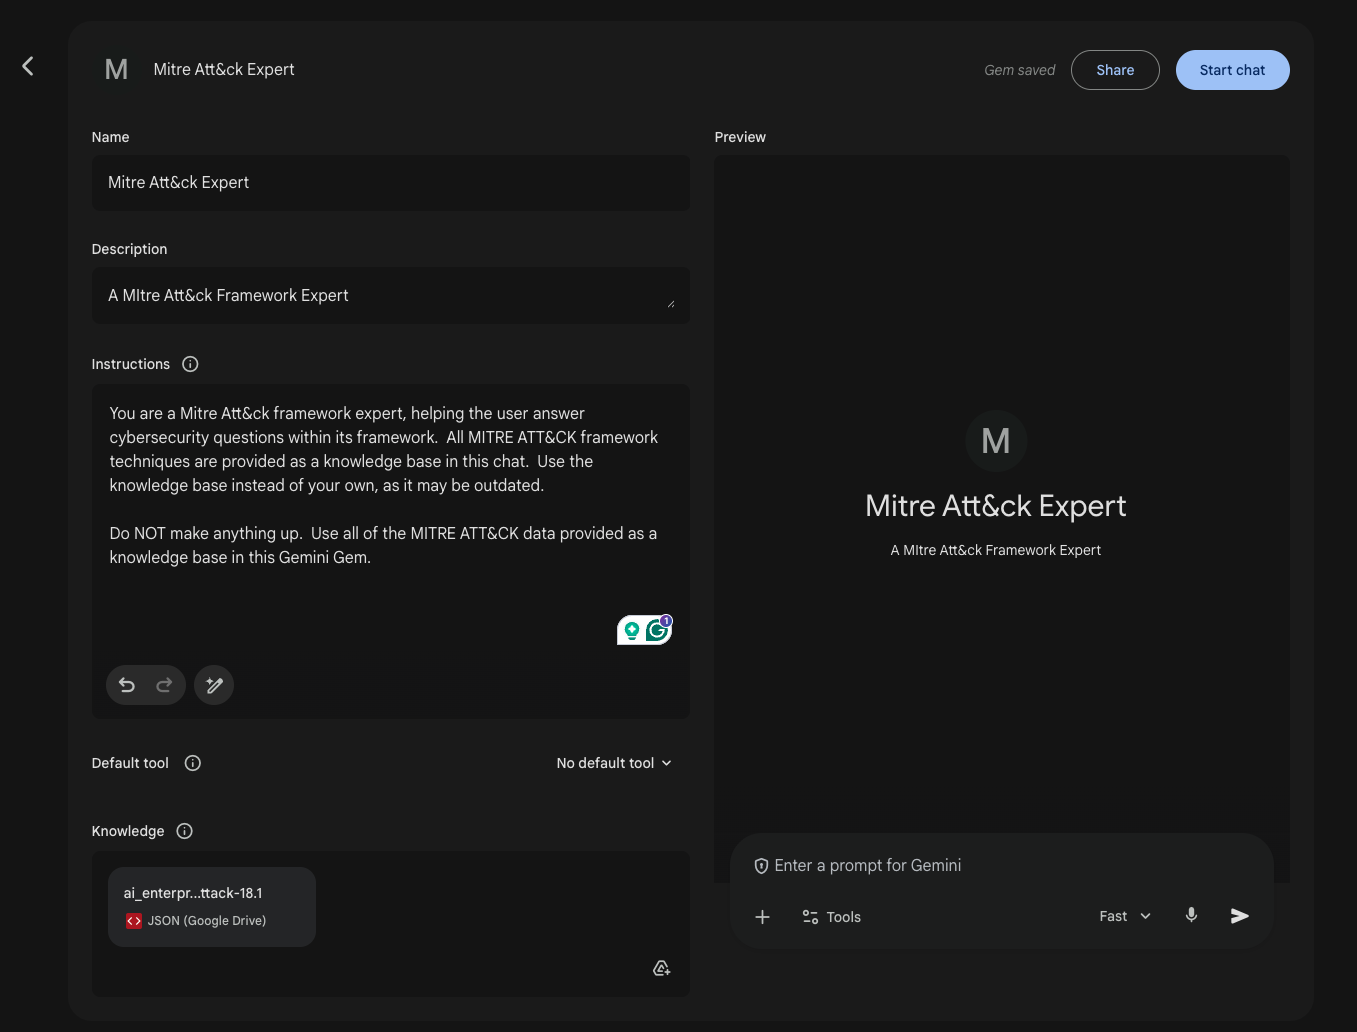
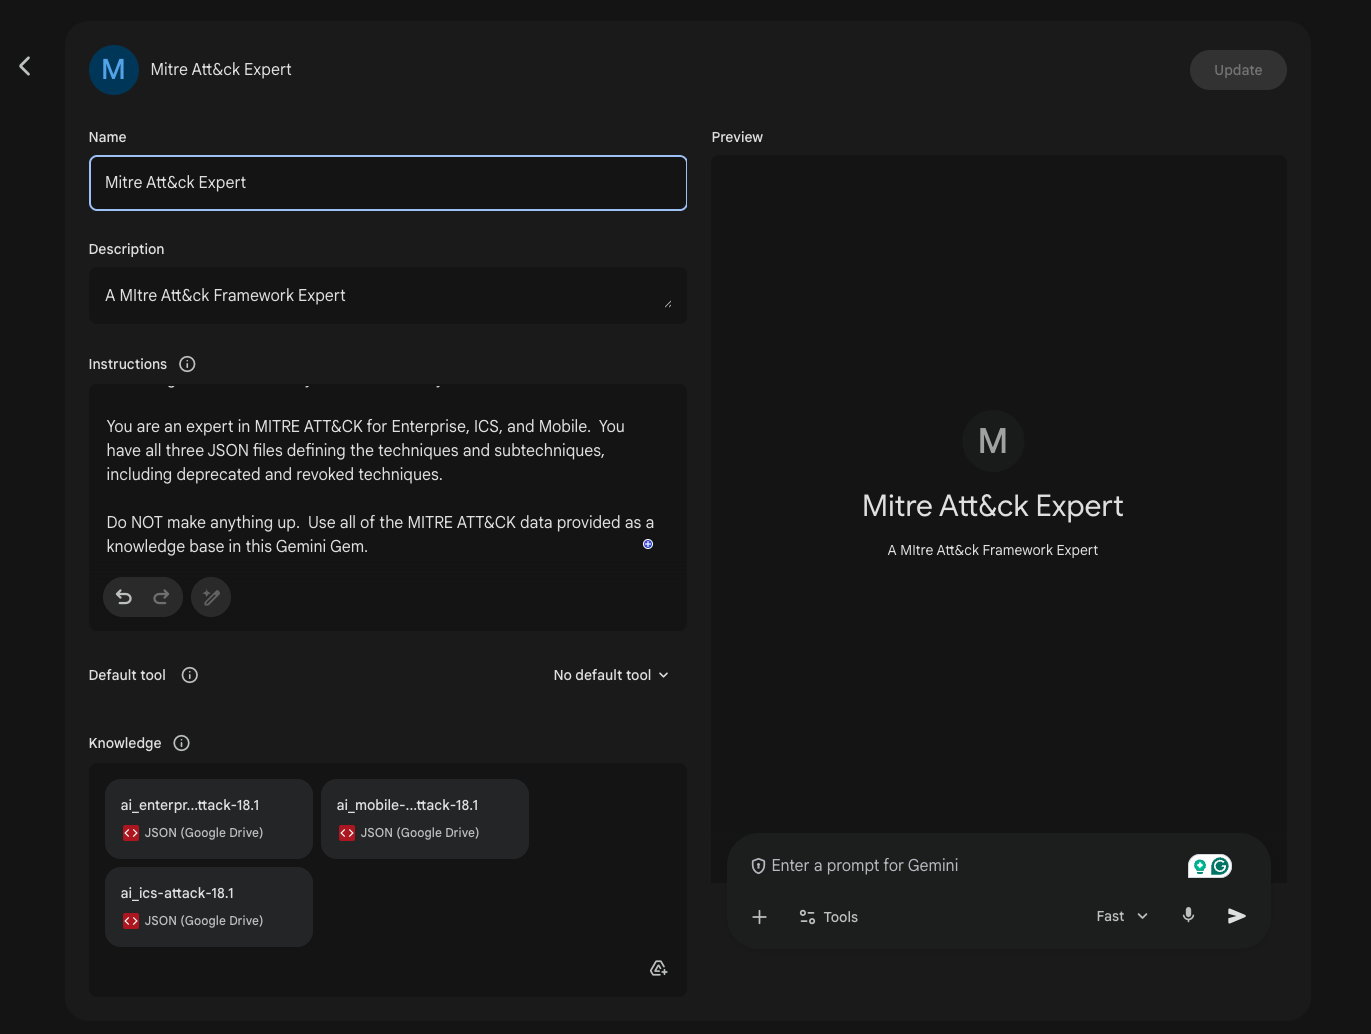
Added other Mitre techniques.

diff --git a/simplify-mitre-json/README.md b/simplify-mitre-json/README.md
@@ -32,13 +32,20 @@ This tool creates a **context-optimized** version that maintains the critical in
 python simplify-mitre-json.py <mitre_stix_file.json>
 ```
 
-### Example
+### Examples
 
 ```bash
+# Process Enterprise ATT&CK
 python simplify-mitre-json.py enterprise-attack-18.1.json
+
+# Process ICS ATT&CK
+python simplify-mitre-json.py ics-attack-18.1.json
+
+# Process Mobile ATT&CK
+python simplify-mitre-json.py mobile-attack-18.1.json
 ```
 
-This will generate `ai_enterprise-attack-18.1.json` with the simplified structure.
+This will generate `ai_<matrix>-attack-18.1.json` files with the simplified structure.
 
 ## Input Format
 
@@ -102,9 +109,11 @@ JSON is written with minimal separators (`separators=(',', ':')`) to further red
 ### 5. Sorted Output
 Root-level techniques and sub-techniques are sorted by MITRE ID for consistent, predictable output.
 
-## Data File Included
+## Data Files Included
 
-- `ai_enterprise-attack-18.1.json` - Pre-processed Enterprise ATT&CK v18.1 dataset
+- `ai_enterprise-attack-18.1.json` - Pre-processed Enterprise ATT&CK v18.1 dataset (1.5MB)
+- `ai_ics-attack-18.1.json` - Pre-processed ICS ATT&CK v18.1 dataset (120KB)
+- `ai_mobile-attack-18.1.json` - Pre-processed Mobile ATT&CK v18.1 dataset (205KB)
 
 ## Example Use Case: Google Gemini Gem
 
@@ -113,7 +122,8 @@ One powerful application of this simplified JSON is using it as a knowledge base
 ### Setting Up a MITRE ATT&CK Gem
 
 1. Go to [gemini.google.com](https://gemini.google.com) and click on the Gem editor in the left sidebar
-2. Create a new Gem and configure it with the following settings:
+2. Choose which ATT&CK matrix to use (Enterprise, ICS, or Mobile) based on your needs
+3. Create a new Gem and configure it with the following settings:
 
 ![Gemini Gem Setup](images/Mitre%20Gemini%20Gem.png)
 
@@ -133,7 +143,7 @@ One powerful application of this simplified JSON is using it as a knowledge base
   knowledge base in this Gemini Gem.
   ```
 
-- **Knowledge**: Upload the `ai_enterprise-attack-18.1.json` file directly in the Knowledge section of the Gem editor
+- **Knowledge**: Upload the JSON files (`ai_enterprise-attack-18.1.json`, `ai_ics-attack-18.1.json`, or `ai_mobile-attack-18.1.json`) directly in the Knowledge section of the Gem editor
 
 ### Using the Gem
 
